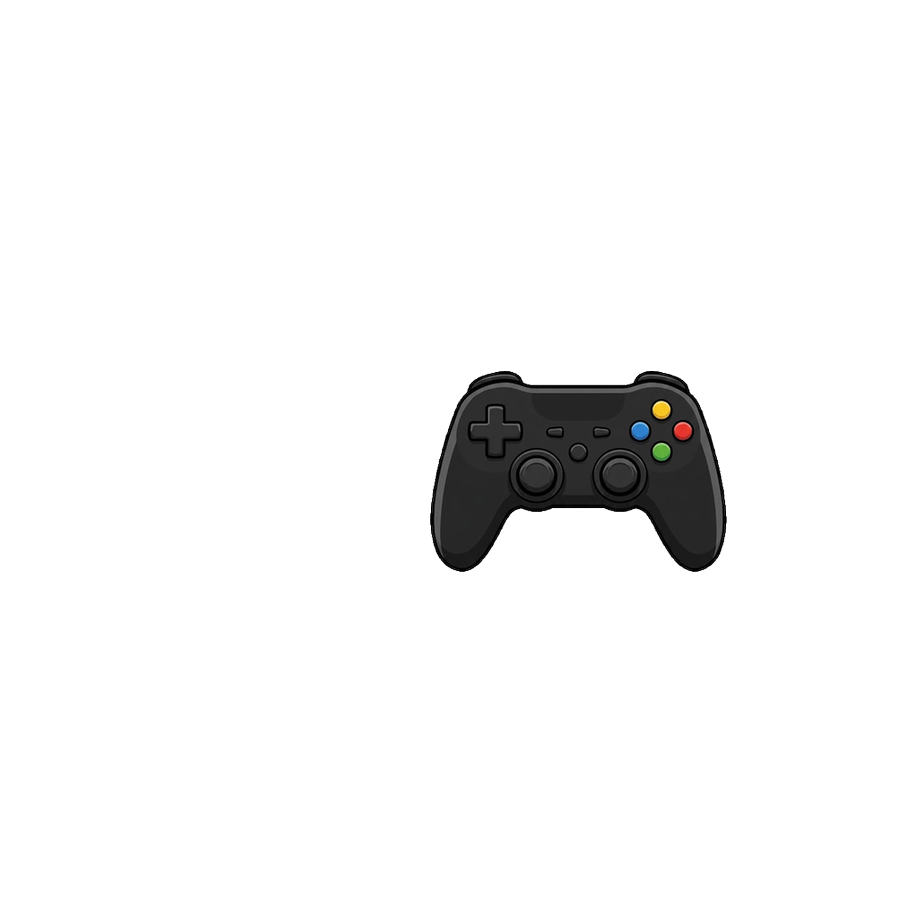
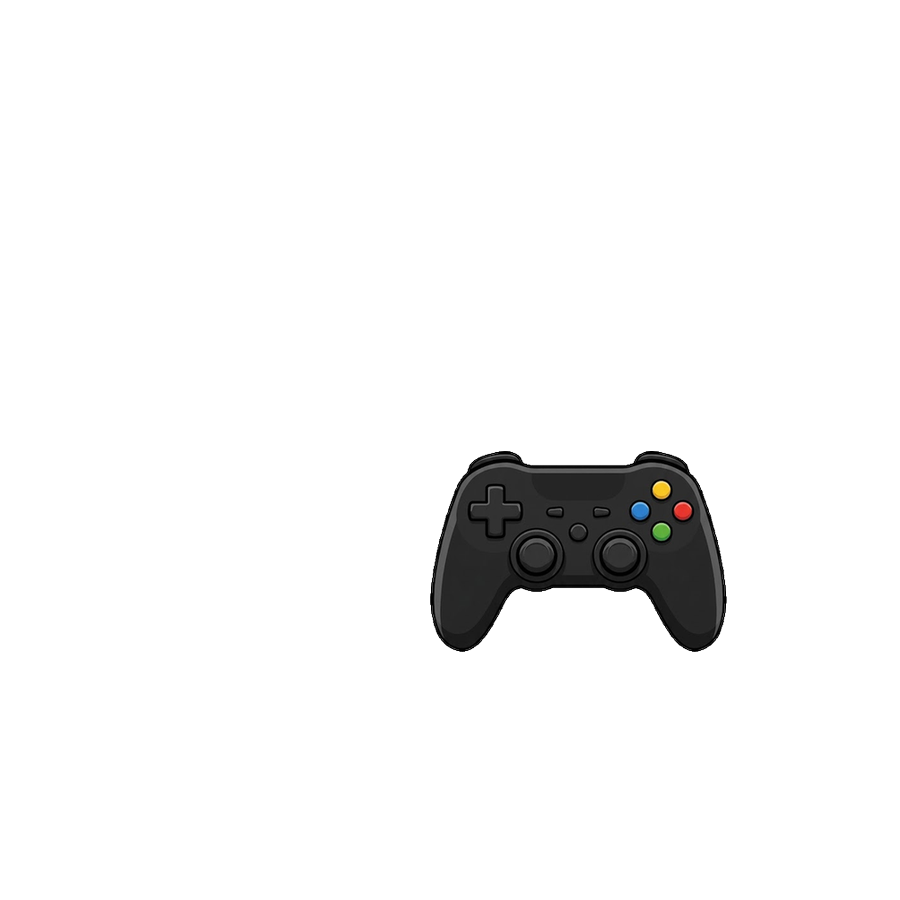
tu mensaje

Changed region(s): [[0.4667, 0.4044, 0.8089, 0.7467]]

diff --git a/SocialBattery/sb_koyeb/client/src/context/MascotContext.jsx b/SocialBattery/sb_koyeb/client/src/context/MascotContext.jsx
@@ -108,9 +108,9 @@ export const MASCOT_ACTIVITIES = [
   {
     id: 'act_gaming',
     name: 'Gaming',
-    desc: 'Mando + auriculares: modo gamer activado.',
+    desc: 'Mando en mano: modo gamer activado.',
     emoji: '🎮',
-    layers: ['/activity-gamepad.png', '/activity-headphones.png'],
+    layers: ['/activity-gamepad.png'],
     price: 120,
     isBase: false,
   },
@@ -139,6 +139,24 @@ export const MASCOT_ACTIVITIES = [
     emoji: '📚',
     layers: ['/activity-study.png'],
     price: 55,
+    isBase: false,
+  },
+  {
+    id: 'act_gym',
+    name: 'Gimnasio',
+    desc: 'A levantar hierro y recargar endorfinas.',
+    emoji: '🏋️',
+    layers: ['/activity-gym.png'],
+    price: 75,
+    isBase: false,
+  },
+  {
+    id: 'act_piano',
+    name: 'Piano',
+    desc: 'Notas que fluyen y llenan la batería.',
+    emoji: '🎹',
+    layers: ['/activity-piano.png'],
+    price: 90,
     isBase: false,
   },
 ];